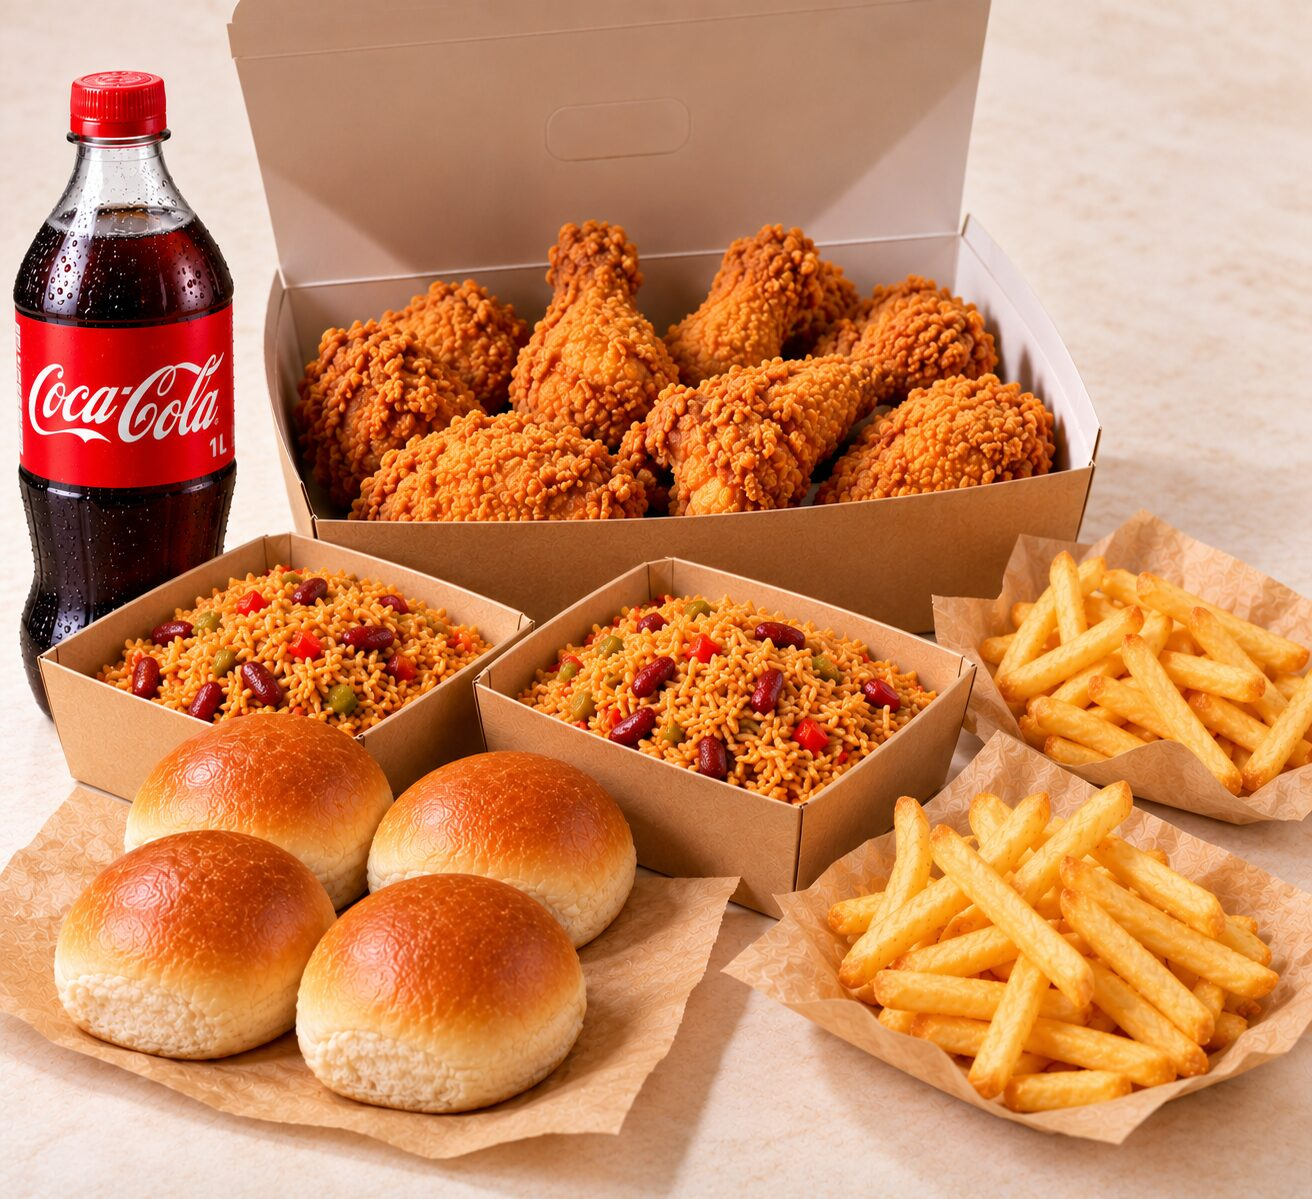
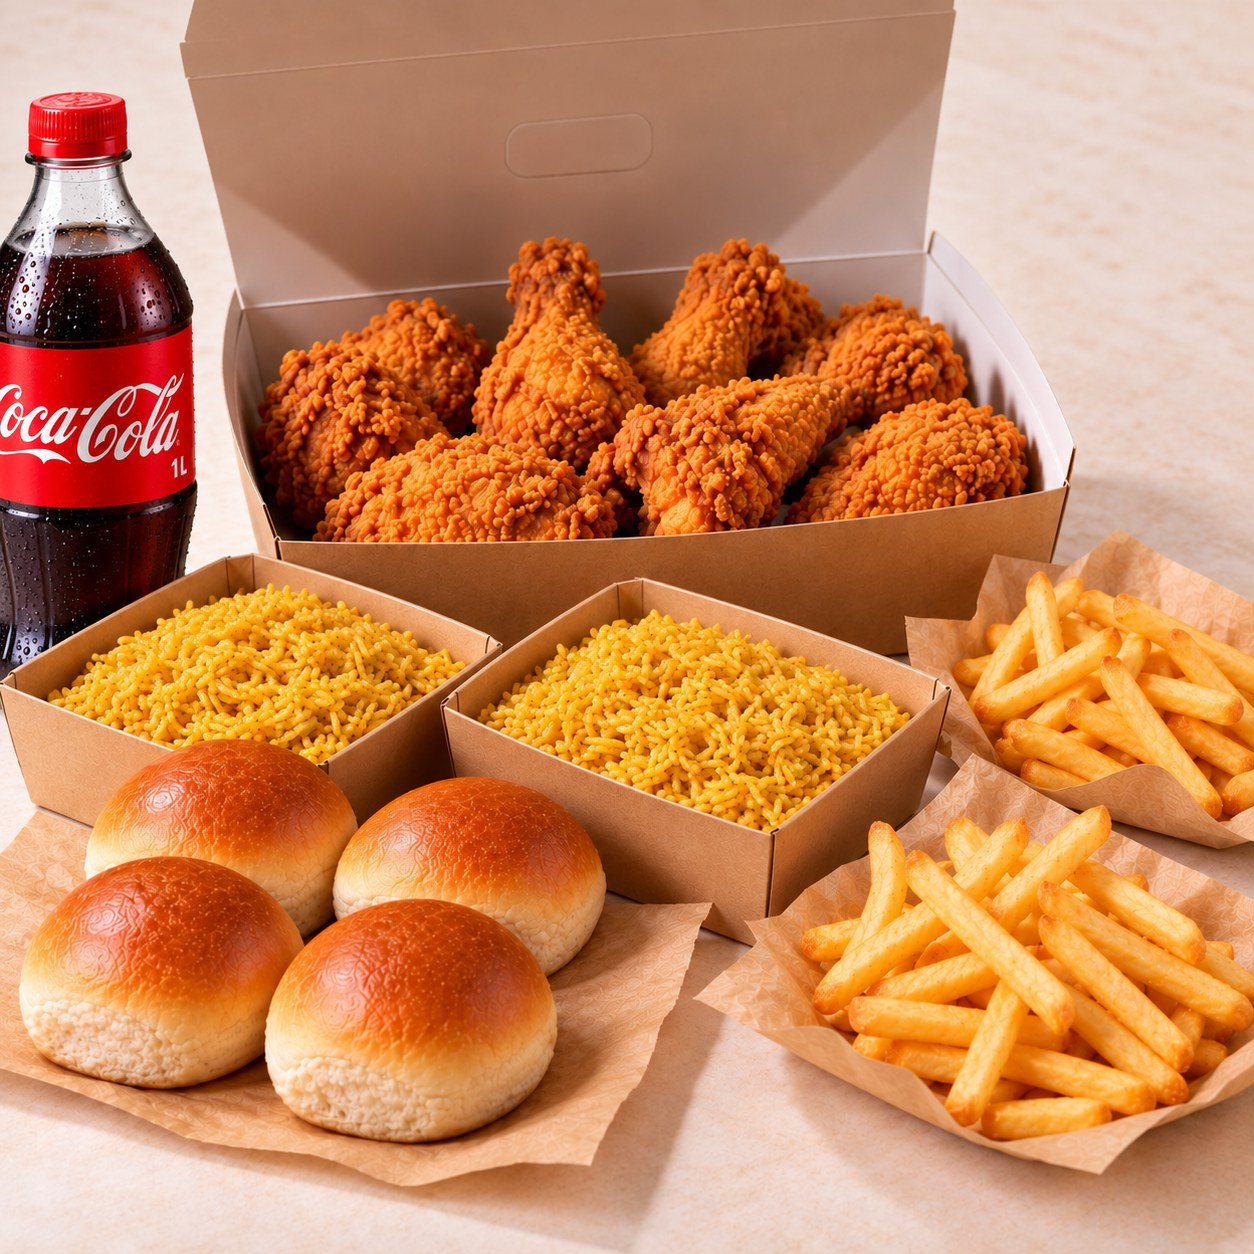
Duo: nouvelle photo, prix 150 DH

diff --git a/data.js b/data.js
@@ -233,8 +233,8 @@ const MFC_PRODUCTS = [
     name: 'Duo',
     description: null,
     ingredients: ['8 Pièces chicken', '2 Frites', '4 Buns', '2 Riz Chili', '1L Boisson'],
-    price: 200,
-    priceLabel: '200 DH',
+    price: 150,
+    priceLabel: '150 DH',
     options: null,
     people: '2 Personnes et +',
     image: 'images/menu/big-box/duo.jpg',
